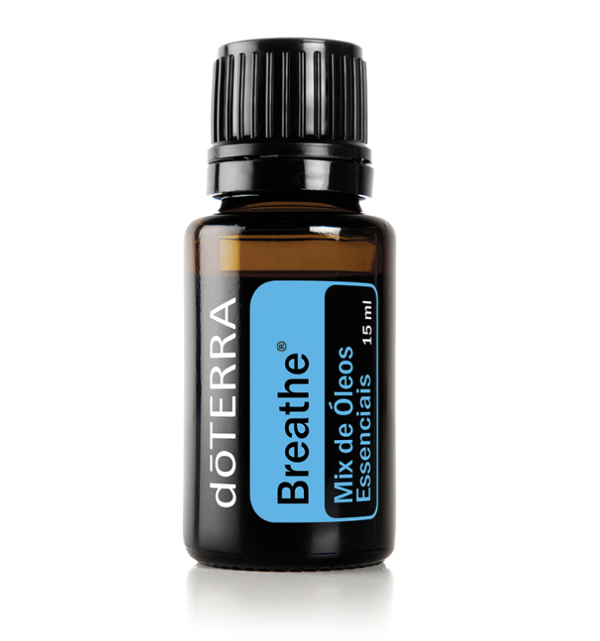
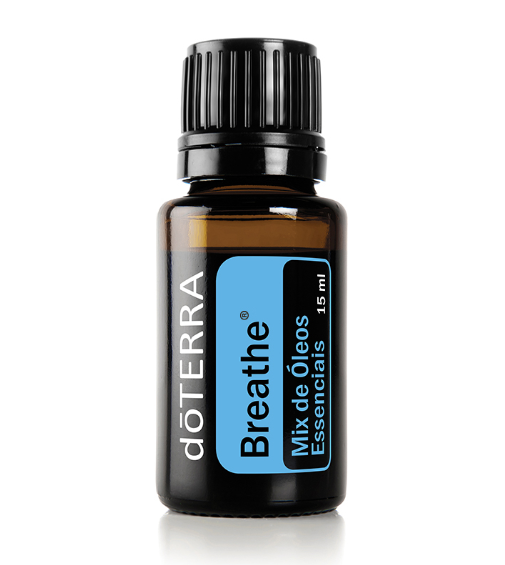
feat(oleos): Atualizar imagens e descrições de óleos

Changed region(s): [[0.297, 0.0301, 0.7129, 0.9929]]

diff --git a/src/dados/produtos.jsx b/src/dados/produtos.jsx
@@ -162,8 +162,8 @@ export const oleos = [
   },
   {
     id: 30,
-    slug: 'oleo-air-x',
-    nome: 'Balance',
+    slug: 'DoTerra-Balance',
+    nome: 'DoTerra Balance',
     categoria: 'Mix de Óleos Essenciais',
     subtitulo: 'O Balance promove sentimentos de calma e bem-estar.',
     descricao: 'O aroma acolhedor e amadeirado do Mix de Óleos Essenciais doTERRA Balance promove sentimentos de calma e bem-estar.',
@@ -171,8 +171,8 @@ export const oleos = [
     parcelamento: '3x de R$ 70,00 sem juros',
     tamanho: '15 ml',
     img: '/fotos/oleos/oleo_individual/balance.png',
-    beneficios: ['Promove uma sensação de relaxamento no corpo inteiro.', 'Pode ajudar a reduzir sensações de desconforto associadas ao dia a dia.', 'Evoca sentimentos de tranquilidade e equilíbrio.', 'Aroma fresco e revigorante', 'Ideal para difusor durante estações de alergias'],
-    tags: ['Respiratório', 'Vias Aéreas', 'doTERRA', 'Mix Essencial'],
+    beneficios: ['Promove uma sensação de relaxamento no corpo inteiro.', 'Pode ajudar a reduzir sensações de desconforto associadas ao dia a dia.', 'Evoca sentimentos de tranquilidade e equilíbrio.'],
+    tags: ['Arejado', 'Fresco', 'Doce', 'Amadeirado', 'doTERRA', 'Mix Essencial'],
     comoUsar: [
       { icon: '💨', titulo: 'Difusor', desc: '3–4 gotas no difusor para purificar o ambiente.' },
       { icon: '🖐', titulo: 'Tópico', desc: 'Dilua e aplique no peito e costas para suporte respiratório.' },
@@ -181,18 +181,18 @@ export const oleos = [
     ],
   },
   {
-    id: 26,
-    slug: 'oleo-air-x',
-    nome: 'Air-X Mix de Óleos Essenciais',
+    id: 31,
+    slug: 'DoTerra-Breathe',
+    nome: 'DoTerra Breathe',
     categoria: 'Mix de Óleos Essenciais',
-    subtitulo: 'Mix respiratório que apoia a saúde das vias aéreas e o conforto respiratório.',
-    descricao: 'O Air-X® doTERRA é um mix de óleos essenciais desenvolvido para oferecer suporte às vias respiratórias. Combina óleos com propriedades que facilitam a respiração limpa, confortável e revigorante.',
-    preco: 'R$ 232,00',
-    parcelamento: '3x de R$ 77,33 sem juros',
+    subtitulo: 'O doTERRA Breathe promove a sensação de vias aéreas limpas.',
+    descricao: 'O doTERRA Breathe é um Mix extraordinário de Óleos Essenciais composto pela combinação da Folha de Louro, Hortelã-pimenta, Eucalipto, Tea Tree, Limão-siciliano, Cardamomo, Canforeira e Ravensara. O doTERRA Breathe promove a sensação de vias aéreas limpas. Pode ser aplicado topicamente no peito, nas costas, ou na planta dos pés, ou pode ser usado no difusor à noite para acalmar os sentidos e promover uma sensação de relaxamento e frescor para um sono restaurador.',
+    preco: 'R$ 230,00',
+    parcelamento: '3x de R$ 76,67 sem juros',
     tamanho: '15 ml',
-    img: '/fotos/oleos/mix_oleo_essencial/air_x.png',
-    beneficios: ['Apoia a saúde das vias respiratórias', 'Promove respiração limpa e confortável', 'Alivia desconfortos respiratórios sazonais', 'Aroma fresco e revigorante', 'Ideal para difusor durante estações de alergias'],
-    tags: ['Respiratório', 'Vias Aéreas', 'doTERRA', 'Mix Essencial'],
+    img: '/fotos/oleos/oleo_individual/Breathe.png',
+    beneficios: ['Promove a sensação de vias aéreas livres', 'Cria um ambiente restaurador na hora de dormir'],
+    tags: ['Mentolado', 'fresco', 'arejado', 'doTERRA', 'Mix Essencial'],
     comoUsar: [
       { icon: '💨', titulo: 'Difusor', desc: '3–4 gotas no difusor para purificar o ambiente.' },
       { icon: '🖐', titulo: 'Tópico', desc: 'Dilua e aplique no peito e costas para suporte respiratório.' },
@@ -201,18 +201,18 @@ export const oleos = [
     ],
   },
   {
-    id: 26,
-    slug: 'oleo-air-x',
-    nome: 'Air-X Mix de Óleos Essenciais',
-    categoria: 'Mix de Óleos Essenciais',
-    subtitulo: 'Mix respiratório que apoia a saúde das vias aéreas e o conforto respiratório.',
-    descricao: 'O Air-X® doTERRA é um mix de óleos essenciais desenvolvido para oferecer suporte às vias respiratórias. Combina óleos com propriedades que facilitam a respiração limpa, confortável e revigorante.',
-    preco: 'R$ 232,00',
-    parcelamento: '3x de R$ 77,33 sem juros',
+    id: 32,
+    slug: 'DoTerra-Lavander',
+    nome: 'DoTerra Lavander',
+    categoria: 'Lavanda',
+    subtitulo: 'O doTERRA Lavender é um óleo indispensável para se ter a qualquer hora.',
+    descricao: 'A Lavanda tem sido usada e estimada por causa de seu aroma inconfundível e sua miríade de  benefícios. Em tempos antigos, por exemplo, os egípcios e romanos a usavam para banhos, relaxamento e como perfume. Além disso, a Lavanda é amplamente usada por suas propriedades relaxantes, que são as suas qualidades mais notáveis.',
+    preco: 'R$ 197,00',
+    parcelamento: '3x de R$ 65,67 sem juros',
     tamanho: '15 ml',
-    img: '/fotos/oleos/mix_oleo_essencial/air_x.png',
-    beneficios: ['Apoia a saúde das vias respiratórias', 'Promove respiração limpa e confortável', 'Alivia desconfortos respiratórios sazonais', 'Aroma fresco e revigorante', 'Ideal para difusor durante estações de alergias'],
-    tags: ['Respiratório', 'Vias Aéreas', 'doTERRA', 'Mix Essencial'],
+    img: '/fotos/oleos/oleo_individual/lavender.png',
+    beneficios: ['Características relaxantes', 'Melhoria do sono'],
+    tags: ['Lavanda', 'Refrescante', 'Floral', 'Leve', 'doTERRA'],
     comoUsar: [
       { icon: '💨', titulo: 'Difusor', desc: '3–4 gotas no difusor para purificar o ambiente.' },
       { icon: '🖐', titulo: 'Tópico', desc: 'Dilua e aplique no peito e costas para suporte respiratório.' },
@@ -221,18 +221,18 @@ export const oleos = [
     ],
   },
   {
-    id: 26,
-    slug: 'oleo-air-x',
-    nome: 'Air-X Mix de Óleos Essenciais',
-    categoria: 'Mix de Óleos Essenciais',
-    subtitulo: 'Mix respiratório que apoia a saúde das vias aéreas e o conforto respiratório.',
-    descricao: 'O Air-X® doTERRA é um mix de óleos essenciais desenvolvido para oferecer suporte às vias respiratórias. Combina óleos com propriedades que facilitam a respiração limpa, confortável e revigorante.',
-    preco: 'R$ 232,00',
-    parcelamento: '3x de R$ 77,33 sem juros',
+    id: 33,
+    slug: 'DoTerra-Peppermint',
+    nome: 'DoTerra Peppermint',
+    categoria: 'Óleo Essencial',
+    subtitulo: 'O óleo essencial Hortelã-pimenta é um híbrido de menta-aquática e de hortelã-verde.',
+    descricao: 'Composto pelos principais constituintes Mentol e Mentona, característica do hortelã-pimenta, é frequentemente usado em cremes dentais e gomas de mascar para higiene bucal. O óleo essencial doTERRA Hortelã-pimenta é um dos óleos essenciais mais queridos e preferidos na doTERRA.',
+    preco: 'R$ 184,00',
+    parcelamento: '3x de R$ 61,33 sem juros',
     tamanho: '15 ml',
-    img: '/fotos/oleos/mix_oleo_essencial/air_x.png',
-    beneficios: ['Apoia a saúde das vias respiratórias', 'Promove respiração limpa e confortável', 'Alivia desconfortos respiratórios sazonais', 'Aroma fresco e revigorante', 'Ideal para difusor durante estações de alergias'],
-    tags: ['Respiratório', 'Vias Aéreas', 'doTERRA', 'Mix Essencial'],
+    img: '/fotos/oleos/oleo_individual/peppermint.png',
+    beneficios: ['Refrescante', 'Revigorante', 'Tonificante'],
+    tags: ['Mentolado', 'Refrescante', 'Herbáceo', 'doTERRA'],
     comoUsar: [
       { icon: '💨', titulo: 'Difusor', desc: '3–4 gotas no difusor para purificar o ambiente.' },
       { icon: '🖐', titulo: 'Tópico', desc: 'Dilua e aplique no peito e costas para suporte respiratório.' },
@@ -241,38 +241,18 @@ export const oleos = [
     ],
   },
   {
-    id: 26,
-    slug: 'oleo-air-x',
-    nome: 'Air-X Mix de Óleos Essenciais',
-    categoria: 'Mix de Óleos Essenciais',
-    subtitulo: 'Mix respiratório que apoia a saúde das vias aéreas e o conforto respiratório.',
-    descricao: 'O Air-X® doTERRA é um mix de óleos essenciais desenvolvido para oferecer suporte às vias respiratórias. Combina óleos com propriedades que facilitam a respiração limpa, confortável e revigorante.',
-    preco: 'R$ 232,00',
-    parcelamento: '3x de R$ 77,33 sem juros',
+    id: 34,
+    slug: 'DoTerra-Limão-Siciliano',
+    nome: 'DoTerra Limão Siciliano',
+    categoria: 'Óleo Essencial',
+    subtitulo: 'O doTERRA Lemon é um agente poderoso que refresca o ambiente e, quando difundido, é muito energizante e edificante.',
+    descricao: 'Os muitos usos e benefícios do Limão Siciliano fazem com que ele seja o Óleo Essencial mais vendido da doTERRA. O doTERRA Lemon é um agente poderoso que refresca o ambiente e, quando difundido, é muito energizante e edificante. Também já foi demonstrado que ele ajuda a melhorar o humor.',
+    preco: 'R$ 115,00',
+    parcelamento: '3x de R$ 38,33 sem juros',
     tamanho: '15 ml',
-    img: '/fotos/oleos/mix_oleo_essencial/air_x.png',
-    beneficios: ['Apoia a saúde das vias respiratórias', 'Promove respiração limpa e confortável', 'Alivia desconfortos respiratórios sazonais', 'Aroma fresco e revigorante', 'Ideal para difusor durante estações de alergias'],
-    tags: ['Respiratório', 'Vias Aéreas', 'doTERRA', 'Mix Essencial'],
-    comoUsar: [
-      { icon: '💨', titulo: 'Difusor', desc: '3–4 gotas no difusor para purificar o ambiente.' },
-      { icon: '🖐', titulo: 'Tópico', desc: 'Dilua e aplique no peito e costas para suporte respiratório.' },
-      { icon: '🌿', titulo: 'Inalação', desc: 'Inalação direta para alívio respiratório imediato.' },
-      { icon: '🛁', titulo: 'Banho a Vapor', desc: 'Adicione gotas na água quente do banho e respire o vapor.' },
-    ],
-  },
-  {
-    id: 26,
-    slug: 'oleo-air-x',
-    nome: 'Air-X Mix de Óleos Essenciais',
-    categoria: 'Mix de Óleos Essenciais',
-    subtitulo: 'Mix respiratório que apoia a saúde das vias aéreas e o conforto respiratório.',
-    descricao: 'O Air-X® doTERRA é um mix de óleos essenciais desenvolvido para oferecer suporte às vias respiratórias. Combina óleos com propriedades que facilitam a respiração limpa, confortável e revigorante.',
-    preco: 'R$ 232,00',
-    parcelamento: '3x de R$ 77,33 sem juros',
-    tamanho: '15 ml',
-    img: '/fotos/oleos/mix_oleo_essencial/air_x.png',
-    beneficios: ['Apoia a saúde das vias respiratórias', 'Promove respiração limpa e confortável', 'Alivia desconfortos respiratórios sazonais', 'Aroma fresco e revigorante', 'Ideal para difusor durante estações de alergias'],
-    tags: ['Respiratório', 'Vias Aéreas', 'doTERRA', 'Mix Essencial'],
+    img: '/fotos/oleos/oleo_individual/lemon.png',
+    beneficios: ['Refresca e energiza o ambiente', 'Promove humor positivo'],
+    tags: ['Limpo', 'Refrescante', 'Cítrico', 'Leve', 'doTERRA'],
     comoUsar: [
       { icon: '💨', titulo: 'Difusor', desc: '3–4 gotas no difusor para purificar o ambiente.' },
       { icon: '🖐', titulo: 'Tópico', desc: 'Dilua e aplique no peito e costas para suporte respiratório.' },
